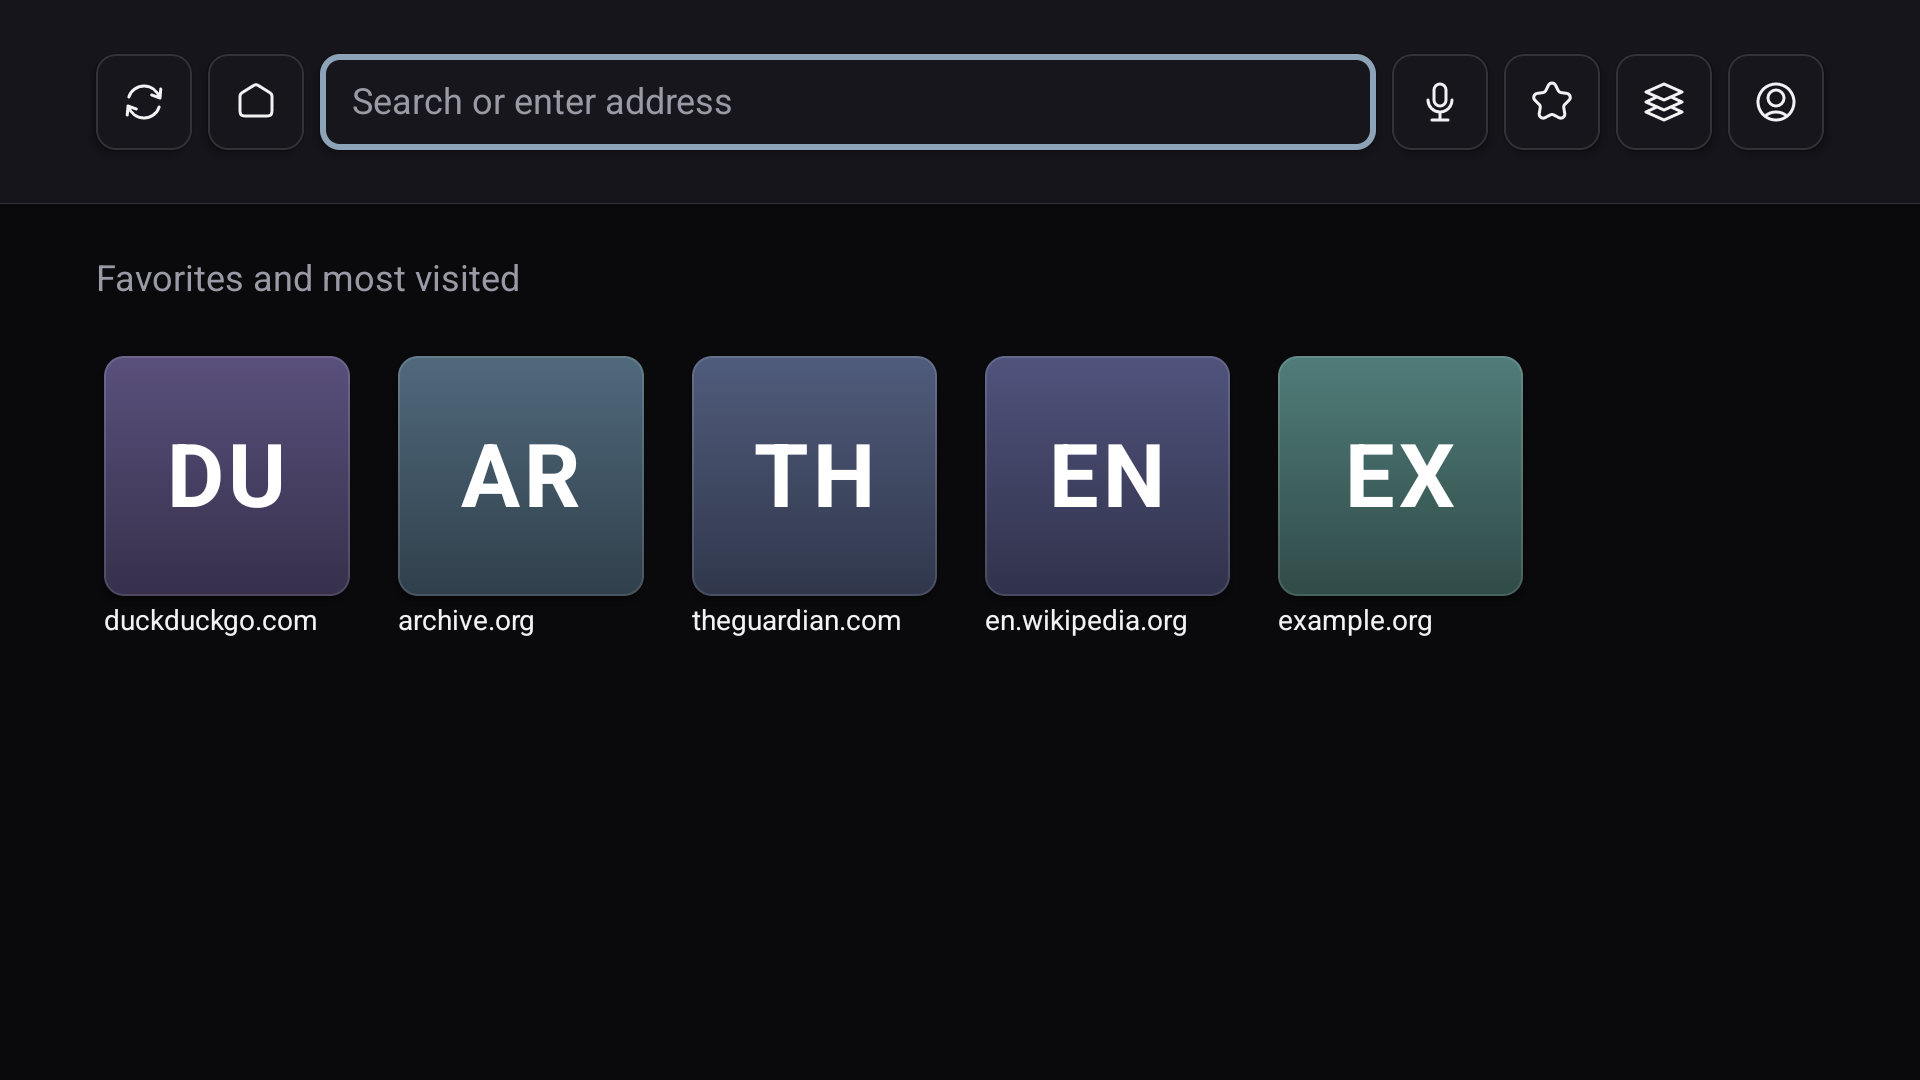
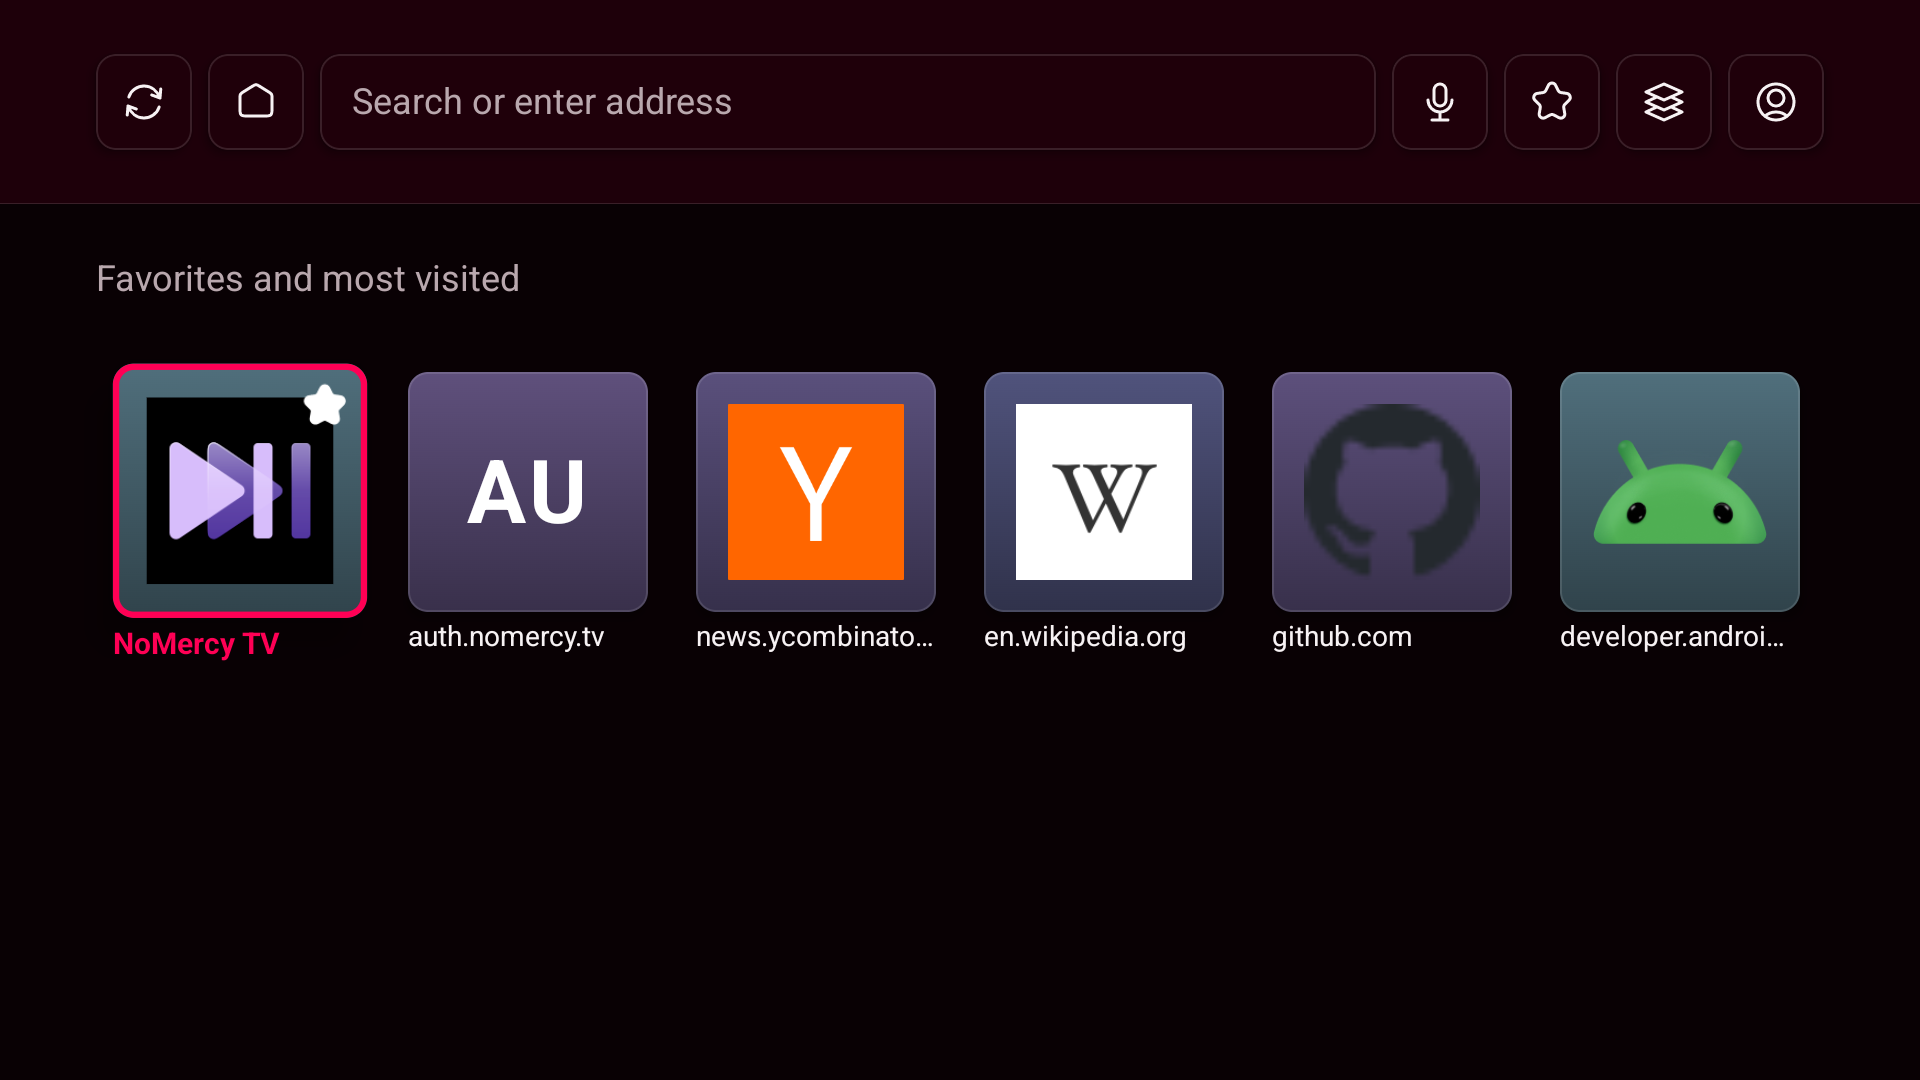
feat(menu): About centred on its own page, and store shots redone for the theme
About drops the banner and centres. The mark was doing the job the heading
already does, and the section reads as a page about the product with the name at
the top rather than a picture with captions under it. The heading is "About" now
so the name is said once, in the place it belongs.

Keeping a page is back, in This site. It was cut as an address-bar duplicate,
and the bar carries a star so that looked right. The bar is revealed by pressing
UP with the pointer against the top edge of a page already at its top, and
app.nomercy.tv never satisfies it - so on that page the star does not exist and
the page could not be kept at all. A second door is only redundant while the
first one opens.

Store screenshots retaken against the current theme, on the 8000 at 1920x1080:
the home grid with real site marks, an article carrying the injected focus ring
in the brand accent, and the restructured menu. The old three predate both the
palette and the menu, so they showed an app that no longer exists.

app.nomercy.tv is kept as a favourite in the home shot, with its own logo.

Changed region(s): [[0.0312, 0.3056, 0.9375, 0.6111], [0.1562, 0.0306, 0.7188, 0.1528], [0.0625, 0.2444, 0.2812, 0.275]]

diff --git a/app/src/main/java/com/nomercylabs/arrowz/chrome/MenuOverlay.kt b/app/src/main/java/com/nomercylabs/arrowz/chrome/MenuOverlay.kt
@@ -5,12 +5,6 @@
 
 package com.nomercylabs.arrowz.chrome
 
-import androidx.compose.foundation.Image
-import androidx.compose.foundation.layout.width
-import androidx.compose.foundation.shape.RoundedCornerShape
-import androidx.compose.ui.draw.clip
-import androidx.compose.ui.res.painterResource
-import androidx.compose.ui.unit.dp
 import androidx.compose.foundation.background
 import androidx.compose.foundation.rememberScrollState
 import androidx.compose.foundation.verticalScroll
@@ -23,6 +17,7 @@ import androidx.compose.foundation.layout.height
 import androidx.compose.foundation.layout.padding
 import androidx.compose.foundation.text.BasicText
 import androidx.compose.runtime.Composable
+import androidx.compose.ui.Alignment
 import androidx.compose.ui.Modifier
 import androidx.compose.ui.res.pluralStringResource
 import androidx.compose.ui.res.stringResource
@@ -46,7 +41,7 @@ enum class MenuSection(val titleRes: Int) {
     Site(R.string.menu_site),
     Library(R.string.menu_library),
     Settings(R.string.menu_settings),
-    About(R.string.menu_about),
+    About(R.string.menu_about_section),
     SearchEngine(R.string.menu_search_engine),
     Permissions(R.string.menu_permissions),
     ClearData(R.string.menu_clear_data),
@@ -74,6 +69,8 @@ enum class MenuSection(val titleRes: Int) {
 @Composable
 fun MenuOverlay(
     canKeepPage: Boolean,
+    isFavourite: Boolean,
+    onToggleFavourite: () -> Unit,
     isDesktopSite: Boolean,
     themeMode: ThemeMode,
     section: MenuSection,
@@ -226,6 +223,23 @@ fun MenuOverlay(
                 }
 
                 MenuSection.Site -> {
+                    // Back, after being cut as an address-bar duplicate. The bar
+                    // carries a star and that was the argument, but the bar is
+                    // revealed by pressing UP with the pointer against the top
+                    // edge of a page that is already at its top - and
+                    // app.nomercy.tv never satisfies it, so on that page the
+                    // star does not exist and keeping the page became
+                    // impossible. A second door is only redundant while the
+                    // first one opens.
+                    ListRow(
+                        title = stringResource(
+                            if (isFavourite) R.string.nav_favourite_remove else R.string.nav_favourite_add,
+                        ),
+                        subtitle = "",
+                        selected = isFavourite,
+                        onClick = onToggleFavourite,
+                        requestInitialFocus = true,
+                    )
                     ListRow(
                         title = stringResource(R.string.menu_privacy),
                         subtitle = if (isFilteringOn) {
@@ -243,7 +257,6 @@ fun MenuOverlay(
                         },
                         selected = isFilteringOn,
                         onClick = onToggleFiltering,
-                        requestInitialFocus = true,
                     )
                     ListRow(
                         title = stringResource(R.string.menu_stay_signed_in),
@@ -471,22 +484,19 @@ private fun AboutPanel(versionName: String) {
     val palette: Palette = LocalPalette.current
 
     Column(
-        modifier = Modifier.fillMaxWidth(),
+        modifier = Modifier
+            .fillMaxSize()
+            .padding(top = Tokens.SpaceXl),
+        horizontalAlignment = Alignment.CenterHorizontally,
         verticalArrangement = Arrangement.spacedBy(Tokens.SpaceMd),
     ) {
-        // The lockup the launcher tile carries, so the app names itself the way
-        // it does everywhere else rather than as a line of body text.
-        Image(
-            painter = painterResource(R.drawable.banner),
-            contentDescription = null,
-            modifier = Modifier
-                .width(MARK_WIDTH)
-                .clip(RoundedCornerShape(Tokens.Radius)),
+        BasicText(
+            text = stringResource(R.string.app_name),
+            style = TextStyle(color = palette.onSurface, fontSize = Tokens.TextDisplay),
         )
-
         BasicText(
             text = stringResource(R.string.menu_about_version, versionName),
-            style = TextStyle(color = palette.onSurface, fontSize = Tokens.TextBody),
+            style = TextStyle(color = palette.accent, fontSize = Tokens.TextBody),
         )
         BasicText(
             text = stringResource(R.string.menu_about_what),
@@ -502,9 +512,5 @@ private fun AboutPanel(versionName: String) {
         )
     }
 }
-
-/** Wide enough to read the wordmark from a sofa, narrow enough that it is a
- *  mark on a page rather than the page. */
-private val MARK_WIDTH = 420.dp
 
 private const val SCRIM_ALPHA: Float = 0.97f

diff --git a/app/src/main/java/com/nomercylabs/arrowz/MainActivity.kt b/app/src/main/java/com/nomercylabs/arrowz/MainActivity.kt
@@ -2062,6 +2062,8 @@ private fun BrowserScreen(
 
             ChromeSurface.Menu -> MenuOverlay(
                 canKeepPage = !showHome && page.url.isNotEmpty(),
+                isFavourite = isFavourite,
+                onToggleFavourite = onToggleFavourite,
                 isDesktopSite = isDesktopSite,
                 themeMode = themeMode,
                 section = menuSection,
